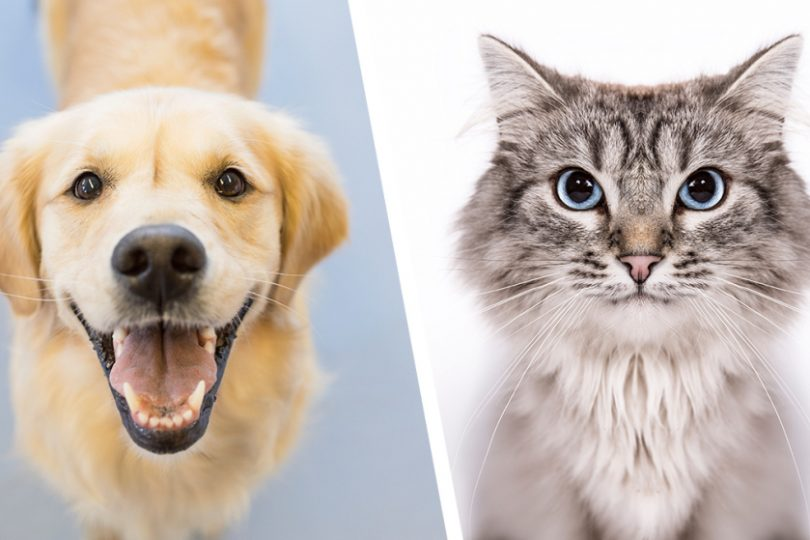
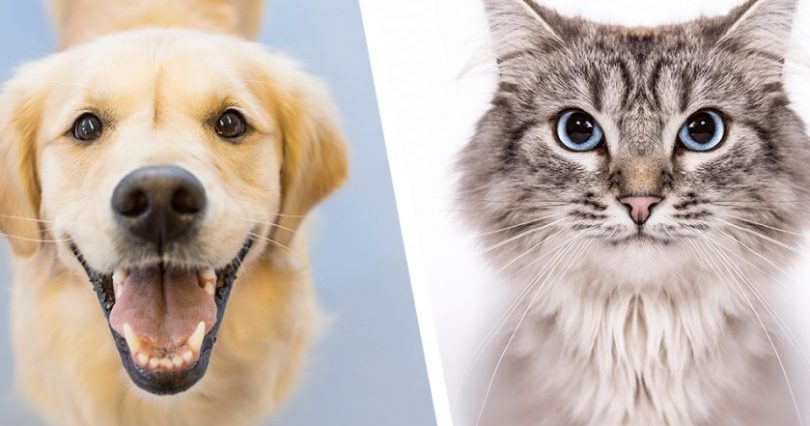
update index.html

diff --git a/index.html b/index.html
@@ -3,18 +3,18 @@
   <head>
     <title>Dogs vs. Cats</title>
     <link href='css/bootstrap.css' rel='stylesheet'>
-  <meta name="viewport" content="width=device-width,
+    <meta name="viewport" content="width=device-width,
 initial-scale=1.0">
-  <link href='css/main.css' rel='stylesheet'>
-  <script src="http://code.jquery.com/jquery-3.3.1.min.js"
+    <script src="http://code.jquery.com/jquery-3.3.1.min.js"
   integrity="sha256-FgpCb/KJQlLNfOu91ta32o/NMZxltwRo8QtmkMRdAu8="
   crossorigin="anonymous"></script>
-<script src="js/bootstrap.min.js"></script>
+    <script src="js/bootstrap.min.js"></script>
+    <link href='css/main.css' rel='stylesheet'>
   </head>
 
   <body>
 
-    <nav class="navbar navbar-inverse" navbar-fixed-top>
+    <nav class="navbar navbar-inverse navbar-fixed-top">
       <div class="container">
         <!-- Brand and toggle get grouped for better mobile display -->
         <div class="navbar-header">
@@ -38,37 +38,34 @@ initial-scale=1.0">
 
       <div class="jumbotron">
         <div class="container">
-
-            <img class="img-circle" class="text-center" src='images/vs.jpg'>
-          </div>
-
+          <div id="versus">
+            <img src='images/vs.png' class="img-circle center-block" alt="versus">
           </div>
         </div>
       </div>
 
+
     <div id="buzz" class="text-center">
       <div class="container">
-        <h2><small>The Buzz</small><br />What are people saying?</h2>
+        <h2>Vote now! <br /><small>DOGS VS CATS</small></h2> <br/>
         <div class="row">
-          <div class="col-sm-4">
-            <img class="img-circle" src='images/person.jpg'>
-            <blockquote>
-              <p>These sandwiches are the best I've ever tasted, for sure. I now eat them every day - breakfast, lunch and dinner.</p>
-            <small>Mr Smith, Professional sandwich taster</small>
-            </blockquote>
+          <div class="col-sm-6">
+            <ul class="lead">Dogs are better than cats</ul>
+            <ul class="lead">They play games</ul>
+            <ul class="lead">Go for walks with you</ul>
+            <ul class="lead">Sunggles</ul>
+            <ul class="lead">Loyal- They're your best friend!</ul>
+            <br />
+            <button class="btn btn-lg btn-primary">Vote!</button>
           </div>
-          <div class="col-sm-4">
-            <img class="img-circle" src='images/person.jpg'>
-            <blockquote>
-              <p>My team are always far more productive after we order from Sam's. 40% more productive, in fact.</p>
-              <small>Miss McAdam, CEO Workplace Analytics</small>
-            </blockquote>
-          </div>
-          <div class="col-sm-4">
-            <img class="img-circle" src='images/person.jpg'>
-            <blockquote>
-              <p>We switched to Sam's Sarnies and won our first government contract the next day. Coincidence? I think not!</p>
-            </blockquote>
+          <div class="col-sm-6">
+            <ul class="lead">Cats are better than dogs</ul>
+            <ul class="lead">Too smart to play fetch</ul>
+            <ul class="lead">No need to go for walks</ul>
+            <ul class="lead">They clean up after themselves</ul>
+            <ul class="lead">They're basically Gods</ul>
+            <br/>
+            <button class="btn btn-lg btn-primary">Vote!</button>
           </div>
         </div>
       </div>
@@ -78,27 +75,14 @@ initial-scale=1.0">
 
 
     <div id="mission">
-      <div class="container">
-        <h2><small>Our mission</small><br />Join us in helping busy professionals eat healthily</h2>
-
-        <p class="lead">We believe that healthy workers are more productive workers.</p>
-        <p class="lead">Providing your team with a healthy lunch each day improves both motivation and morale.</p>
-        <p class="lead">We deliver healthy sandwiches, made with the best ingredients, to your workplace every day.</p>
-
-        <div id="social-buttons">
-          <button class="btn btn-lg btn-twitter">Twitter</button>
-          <button class="btn btn-lg btn-facebook">Facebook</button>
-          <button class="btn btn-lg btn-pinterest">Pinterest</button>
-        </div>
+      <div class="container center-block ">
+        <img id="social" src='images/facebook.jpg' class="img-circle" alt="facebook">
+        <img id="social" src='images/instagram.jpeg' class="img-circle" alt="instagram">
+        <img id="social" src='images/twitter.jpeg' class="img-circle" alt="twitter">
+      </div>
       </div>
     </div>
   </div>
-heloo
-
-
-
-
-
 
   </body>
 

diff --git a/css/main.css b/css/main.css
@@ -2,11 +2,24 @@
   background-image: url('../images/header.jpg');
   background-size: cover;
   background-attachment: fixed;
+  background-position: center;
   min-height: 900px;
+  padding-top: 800px;
+}
+#buzz {
+  padding-bottom:75px;
 }
 
+#versus{
+  border-top: 200px;
+}
 
-.img-circle{
-max-width: 200px;
-max-height: 200px;
+#mission {
+  background: rgba(32, 35, 41, 0.9);
+  color: #ddd;
+  padding:50px;
+}
+
+#social{
+  max-height:75px;
 }
